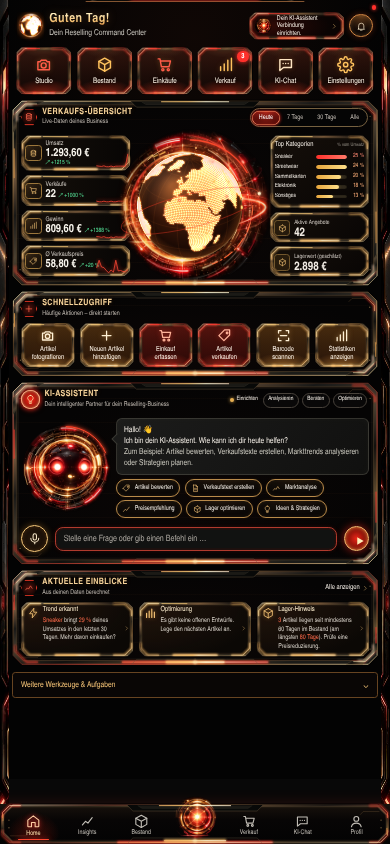
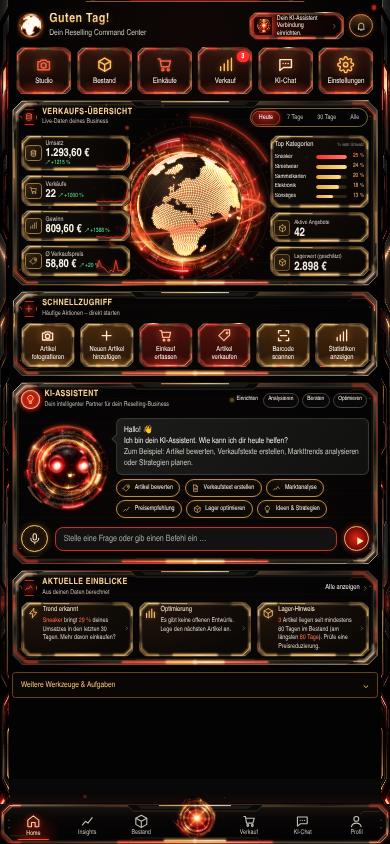
Globus und Hintergrund nach Referenz überarbeiten
- Kugel dunkel statt braun, Ozean als feines Punktraster, heller Lichtrand
- Neigung so, dass Europa oben in der Mitte steht
- Neuer SVG-Hintergrund: roter Halo, Ringe mit Skalenstrichen, Fadenkreuz
  und funkelnde Funken, weich ins Panel auslaufend
- Harte Kante des Ringbilds per Maske ausgeblendet
- Umlaufbahn vorne kräftig leuchtend, hinten gedämpft

Claude-Session: https://claude.ai/code/session_0194bcZ5PbUBuV3hzmwdGD96

diff --git a/public/fx.js b/public/fx.js
@@ -89,6 +89,18 @@
     this.dot = opt.dot || 1;
     this.lights = opt.lights !== false;
     this.size = 0;
+    if (opt.ocean) {
+      var oc = [], RR = Math.PI / 180, landSet = {};
+      for (var la0 = -80; la0 <= 80; la0 += 6) {
+        var ls0 = 6 / Math.max(0.25, Math.cos(la0 * RR));
+        for (var lo0 = -180; lo0 < 180; lo0 += ls0) {
+          var onLand = false;
+          for (var k0 = 0; k0 < LAND.length && !onLand; k0++) { var b0 = BOX[k0]; if (lo0 >= b0[0] && lo0 <= b0[2] && la0 >= b0[1] && la0 <= b0[3] && inPoly(lo0, la0, LAND[k0])) onLand = true; }
+          if (!onLand) oc.push([lo0 * RR, la0 * RR]);
+        }
+      }
+      this.ocean = oc;
+    }
     var hot = [];
     for (var i = 0; i < this.pts.length; i += Math.max(1, Math.round(this.pts.length / 52))) {
       hot.push({ p: this.pts[i], ph: Math.random() * 6.28, f: 0.8 + Math.random() * 1.8, red: Math.random() < 0.55 });
@@ -108,11 +120,23 @@
     ctx.clearRect(0, 0, s, s);
     // Kugel
     var g = ctx.createRadialGradient(cx - R * 0.32, cy - R * 0.38, R * 0.05, cx, cy, R);
-    g.addColorStop(0, 'rgba(150,72,26,0.97)'); g.addColorStop(0.45, 'rgba(66,26,10,0.98)'); g.addColorStop(1, 'rgba(14,5,2,1)');
+    g.addColorStop(0, 'rgba(34,14,6,0.98)'); g.addColorStop(0.5, 'rgba(12,5,3,0.99)'); g.addColorStop(1, 'rgba(6,3,2,1)');
     ctx.beginPath(); ctx.arc(cx, cy, R, 0, 6.2832); ctx.fillStyle = g; ctx.fill();
     var lc = this.lon0 + t * this.speed, ct = Math.cos(this.tilt), st = Math.sin(this.tilt);
     // Gradnetz
-    ctx.lineWidth = Math.max(0.6, s / 520); ctx.strokeStyle = 'rgba(255,140,60,0.13)';
+    // Ozean als feines Punktraster wie in der Referenz
+    if (this.ocean) {
+      var oc = this.ocean, od = Math.max(0.8, s / 420);
+      ctx.fillStyle = 'rgba(255,150,70,0.11)';
+      for (var oi = 0; oi < oc.length; oi++) {
+        var op = oc[oi], ocl = Math.cos(op[1]), odl = op[0] - (this.lon0 + t * this.speed);
+        var ox = ocl * Math.sin(odl), oy = Math.sin(op[1]), oz = ocl * Math.cos(odl);
+        var oy2 = oy * Math.cos(this.tilt) - oz * Math.sin(this.tilt), oz2 = oy * Math.sin(this.tilt) + oz * Math.cos(this.tilt);
+        if (oz2 <= 0.05) continue;
+        ctx.fillRect(cx + ox * R - od / 2, cy - oy2 * R - od / 2, od, od);
+      }
+    }
+    ctx.lineWidth = Math.max(0.6, s / 520); ctx.strokeStyle = 'rgba(255,140,60,0.17)';
     var la, lo, x, y, z, y2, z2, first;
     for (la = -60; la <= 60; la += 30) {
       ctx.beginPath(); first = true;
@@ -148,11 +172,11 @@
       buckets[bi].push(cx + x * R, cy - y2 * R);
     }
     var cols = ['rgba(205,112,44,0.55)', 'rgba(236,146,60,0.74)', 'rgba(255,182,92,0.88)', 'rgba(255,212,134,0.96)', 'rgba(255,238,184,1)'];
-    var dsz = Math.max(1.2, s / 210) * this.dot, gsz = dsz * 2.6;
+    var dsz = Math.max(1.2, s / 250) * this.dot, gsz = dsz * 2.6;
     ctx.globalCompositeOperation = 'lighter';
     for (var b = 2; b < 5; b++) {
       var ga = buckets[b]; if (!ga.length) continue;
-      ctx.fillStyle = 'rgba(255,120,40,' + (0.05 + b * 0.025) + ')';
+      ctx.fillStyle = 'rgba(255,120,40,' + (0.02 + b * 0.015) + ')';
       for (i = 0; i < ga.length; i += 2) ctx.fillRect(ga[i] - gsz / 2, ga[i + 1] - gsz / 2, gsz, gsz);
     }
     for (var b2 = 0; b2 < 5; b2++) {
@@ -177,8 +201,8 @@
       ctx.globalAlpha = 1;
     }
     // Lichtrand und Glanz
-    var rim = ctx.createRadialGradient(cx, cy, R * 0.82, cx, cy, R);
-    rim.addColorStop(0, 'rgba(255,120,40,0)'); rim.addColorStop(0.85, 'rgba(255,120,40,0.22)'); rim.addColorStop(1, 'rgba(255,200,120,0.55)');
+    var rim = ctx.createRadialGradient(cx, cy, R * 0.72, cx, cy, R);
+    rim.addColorStop(0, 'rgba(255,110,30,0)'); rim.addColorStop(0.75, 'rgba(255,110,30,0.06)'); rim.addColorStop(0.93, 'rgba(255,140,50,0.38)'); rim.addColorStop(1, 'rgba(255,225,160,0.9)');
     ctx.beginPath(); ctx.arc(cx, cy, R, 0, 6.2832); ctx.fillStyle = rim; ctx.fill();
     var sh = ctx.createRadialGradient(cx - R * 0.42, cy - R * 0.48, 0, cx - R * 0.42, cy - R * 0.48, R * 0.75);
     sh.addColorStop(0, 'rgba(255,220,170,0.16)'); sh.addColorStop(1, 'rgba(255,220,170,0)');
@@ -193,7 +217,30 @@
     var wrap = doc.querySelector('.v15-globe-wrap'); if (!wrap || wrap.querySelector('.cc-earth')) return;
     var c = doc.createElement('canvas'); c.className = 'cc-earth'; c.setAttribute('aria-hidden', 'true');
     wrap.appendChild(c);
-    var e = new Earth(c, { step: 1.9, lon0: 14, tilt: 26, speed: 0.11 });
+    var e = new Earth(c, { step: 1.9, lon0: 14, tilt: 38, speed: 0.11, ocean: true });
+    // Hintergrund nach Referenz: Halo, Ringe, Fadenkreuz und Funken, die ins Panel auslaufen
+    var bg = svgEl('svg', { viewBox: '-50 -50 200 200', class: 'cc-globe-bg', 'aria-hidden': 'true' });
+    var bd = svgEl('defs', {});
+    var rg = svgEl('radialGradient', { id: 'ccHalo', cx: '47', cy: '49.7', r: '62', gradientUnits: 'userSpaceOnUse' });
+    [['0', '#ff4a20', '.30'], ['.42', '#c8250f', '.20'], ['.7', '#5a0c05', '.10'], ['1', '#000', '0']].forEach(function (q) { rg.appendChild(svgEl('stop', { offset: q[0], 'stop-color': q[1], 'stop-opacity': q[2] })); });
+    bd.appendChild(rg); bg.appendChild(bd);
+    bg.appendChild(svgEl('circle', { cx: '47', cy: '49.7', r: '62', fill: 'url(#ccHalo)' }));
+    [[50, '.22', '.25', ''], [56, '.16', '.2', '.6 1.8'], [63, '.12', '.18', ''], [71, '.08', '.15', '2 3']].forEach(function (q) {
+      bg.appendChild(svgEl('circle', { cx: '47', cy: '49.7', r: String(q[0]), fill: 'none', stroke: '#ff9a50', 'stroke-opacity': q[1], 'stroke-width': q[2], 'stroke-dasharray': q[3] }));
+    });
+    bg.appendChild(svgEl('path', { d: 'M-40 49.7 H134 M47 -36 V136 M-15 -12 L109 112 M109 -12 L-15 112', stroke: '#ff7a3a', 'stroke-opacity': '.10', 'stroke-width': '.25', fill: 'none' }));
+    var ticks = '';
+    for (var a = 0; a < 360; a += 6) { var rad = a * Math.PI / 180, r1 = a % 30 ? 52 : 50.5; ticks += 'M' + (47 + Math.cos(rad) * r1).toFixed(2) + ' ' + (49.7 + Math.sin(rad) * r1).toFixed(2) + ' L' + (47 + Math.cos(rad) * 53.5).toFixed(2) + ' ' + (49.7 + Math.sin(rad) * 53.5).toFixed(2) + ' '; }
+    bg.appendChild(svgEl('path', { d: ticks, stroke: '#ffb070', 'stroke-opacity': '.28', 'stroke-width': '.3', fill: 'none' }));
+    bg.appendChild(svgEl('path', { d: 'M47 -6.3 A56 56 0 0 1 95.5 21.7', fill: 'none', stroke: '#ff3a25', 'stroke-width': '.8', 'stroke-linecap': 'round', class: 'cc-glowline', opacity: '.75' }));
+    bg.appendChild(svgEl('path', { d: 'M-1.5 77.7 A56 56 0 0 1 -8.6 42', fill: 'none', stroke: '#ff3a25', 'stroke-width': '.6', 'stroke-linecap': 'round', class: 'cc-glowline', opacity: '.6' }));
+    var seed = 7; function rnd() { seed = (seed * 9301 + 49297) % 233280; return seed / 233280; }
+    for (var sp = 0; sp < 70; sp++) {
+      var ang = rnd() * 6.2832, dist = 36 + rnd() * 50;
+      var sx = 47 + Math.cos(ang) * dist * 1.25, sy = 49.7 + Math.sin(ang) * dist * 0.95;
+      bg.appendChild(svgEl('circle', { cx: sx.toFixed(2), cy: sy.toFixed(2), r: (0.35 + rnd() * 0.7).toFixed(2), fill: rnd() < 0.7 ? '#ff4a30' : '#ffc27a', class: 'cc-spark cc-spark-' + (sp % 4) }));
+    }
+    wrap.insertBefore(bg, wrap.firstChild);
     earths.push(e);
     wrap.classList.add('cc-live');
     // HUD-Ringe, Radar-Sweep und Umlaufbahn mit wanderndem Licht
@@ -214,7 +261,9 @@
     sweep.appendChild(svgEl('path', { d: 'M47 49.7 L47 16.2 A33.5 33.5 0 0 1 70.7 26 Z', fill: 'url(#ccSweepG)', opacity: '.33' }));
     var orbitPath = 'M2 53 A45 10.5 0 1 0 92 53 A45 10.5 0 1 0 2 53';
     var orbit = svgEl('g', { transform: 'rotate(-14 47 53)' });
-    orbit.appendChild(svgEl('path', { d: orbitPath, fill: 'none', stroke: '#ff3a25', 'stroke-opacity': '.55', 'stroke-width': '.45' }));
+    orbit.appendChild(svgEl('path', { d: 'M2 53 A45 10.5 0 0 1 92 53', fill: 'none', stroke: '#ff3a25', 'stroke-opacity': '.35', 'stroke-width': '.4' }));
+    orbit.appendChild(svgEl('path', { d: 'M92 53 A45 10.5 0 0 1 2 53', fill: 'none', stroke: '#ff5a30', 'stroke-width': '.95', 'stroke-linecap': 'round', class: 'cc-glowline' }));
+    orbit.appendChild(svgEl('path', { d: 'M80 59.5 A45 10.5 0 0 1 30 63', fill: 'none', stroke: '#ffd9a0', 'stroke-width': '.35', 'stroke-linecap': 'round', opacity: '.85' }));
     var dot = svgEl('circle', { r: '1.15', fill: '#fff0c8', class: 'cc-orbit-dot' });
     if (!reduce) {
       var am = svgEl('animateMotion', { dur: '7.5s', repeatCount: 'indefinite', path: orbitPath });

diff --git a/public/fx.css b/public/fx.css
@@ -13,9 +13,20 @@ body:has(#home:not(.hidden))::after { width: calc(17px * var(--cc-zoom, 1)); }
   box-shadow: 0 0 34px 6px rgba(255, 110, 40, .28);
 }
 .v15-globe-wrap.cc-live .v11-globe {
-  -webkit-mask-image: radial-gradient(circle at 47% 49.7%, transparent 0 31.4%, #000 33.8%);
-          mask-image: radial-gradient(circle at 47% 49.7%, transparent 0 31.4%, #000 33.8%);
+  -webkit-mask-image: radial-gradient(circle at 47% 49.7%, transparent 0 31.4%, #000 33.8%, #000 56%, rgba(0,0,0,.6) 63%, transparent 69%);
+          mask-image: radial-gradient(circle at 47% 49.7%, transparent 0 31.4%, #000 33.8%, #000 56%, rgba(0,0,0,.6) 63%, transparent 69%);
 }
+/* Referenz-Hintergrund des Globus: läuft weich ins Panel aus */
+.v15-globe-wrap .cc-globe-bg { position: absolute; left: -50%; top: -50%; width: 200%; height: 200%; overflow: visible; pointer-events: none; z-index: 0;
+  -webkit-mask-image: radial-gradient(ellipse 50% 50% at 48.5% 49.85%, #000 55%, transparent 100%);
+          mask-image: radial-gradient(ellipse 50% 50% at 48.5% 49.85%, #000 55%, transparent 100%); }
+.v15-globe-wrap .v11-globe { position: relative; z-index: 0; }
+.v11-sales .body > .v11-col { position: relative; z-index: 2; }
+.cc-spark { filter: drop-shadow(0 0 .8px #ff5a30); animation: cc-twinkle 3.2s ease-in-out infinite; }
+.cc-spark-1 { animation-delay: -.8s; animation-duration: 2.6s; }
+.cc-spark-2 { animation-delay: -1.7s; animation-duration: 4.1s; }
+.cc-spark-3 { animation-delay: -2.4s; animation-duration: 3.6s; }
+@keyframes cc-twinkle { 0%, 100% { opacity: .25; } 50% { opacity: 1; } }
 .cc-globe-hud, .cc-bot-hud { position: absolute; inset: 0; width: 100%; height: 100%; overflow: visible; pointer-events: none; z-index: 2; }
 .cc-globe-hud .cc-spin-a, .cc-globe-hud .cc-spin-b, .cc-globe-hud .cc-sweep { transform-box: view-box; transform-origin: 47px 49.7px; }
 .cc-bot-hud .cc-spin-a, .cc-bot-hud .cc-spin-b { transform-box: view-box; transform-origin: 50px 51px; }

diff --git a/public/sw.js b/public/sw.js
@@ -1,4 +1,4 @@
-const CACHE='rv-studio-v18-reference-1';
+const CACHE='rv-studio-v18-reference-2';
 const FILES=['/','/index.html','/app.css','/dashboard.css','/fx.css','/ref.css','/app.js','/dashboard.js','/fx.js',
   '/vendor/jszip.min.js','/fonts/command-sans-regular.otf','/fonts/command-sans-bold.otf',
   '/rv-logo.jpg','/rv-ai-mascot.png','/rv-robot-premium.png','/rv-white.png',
